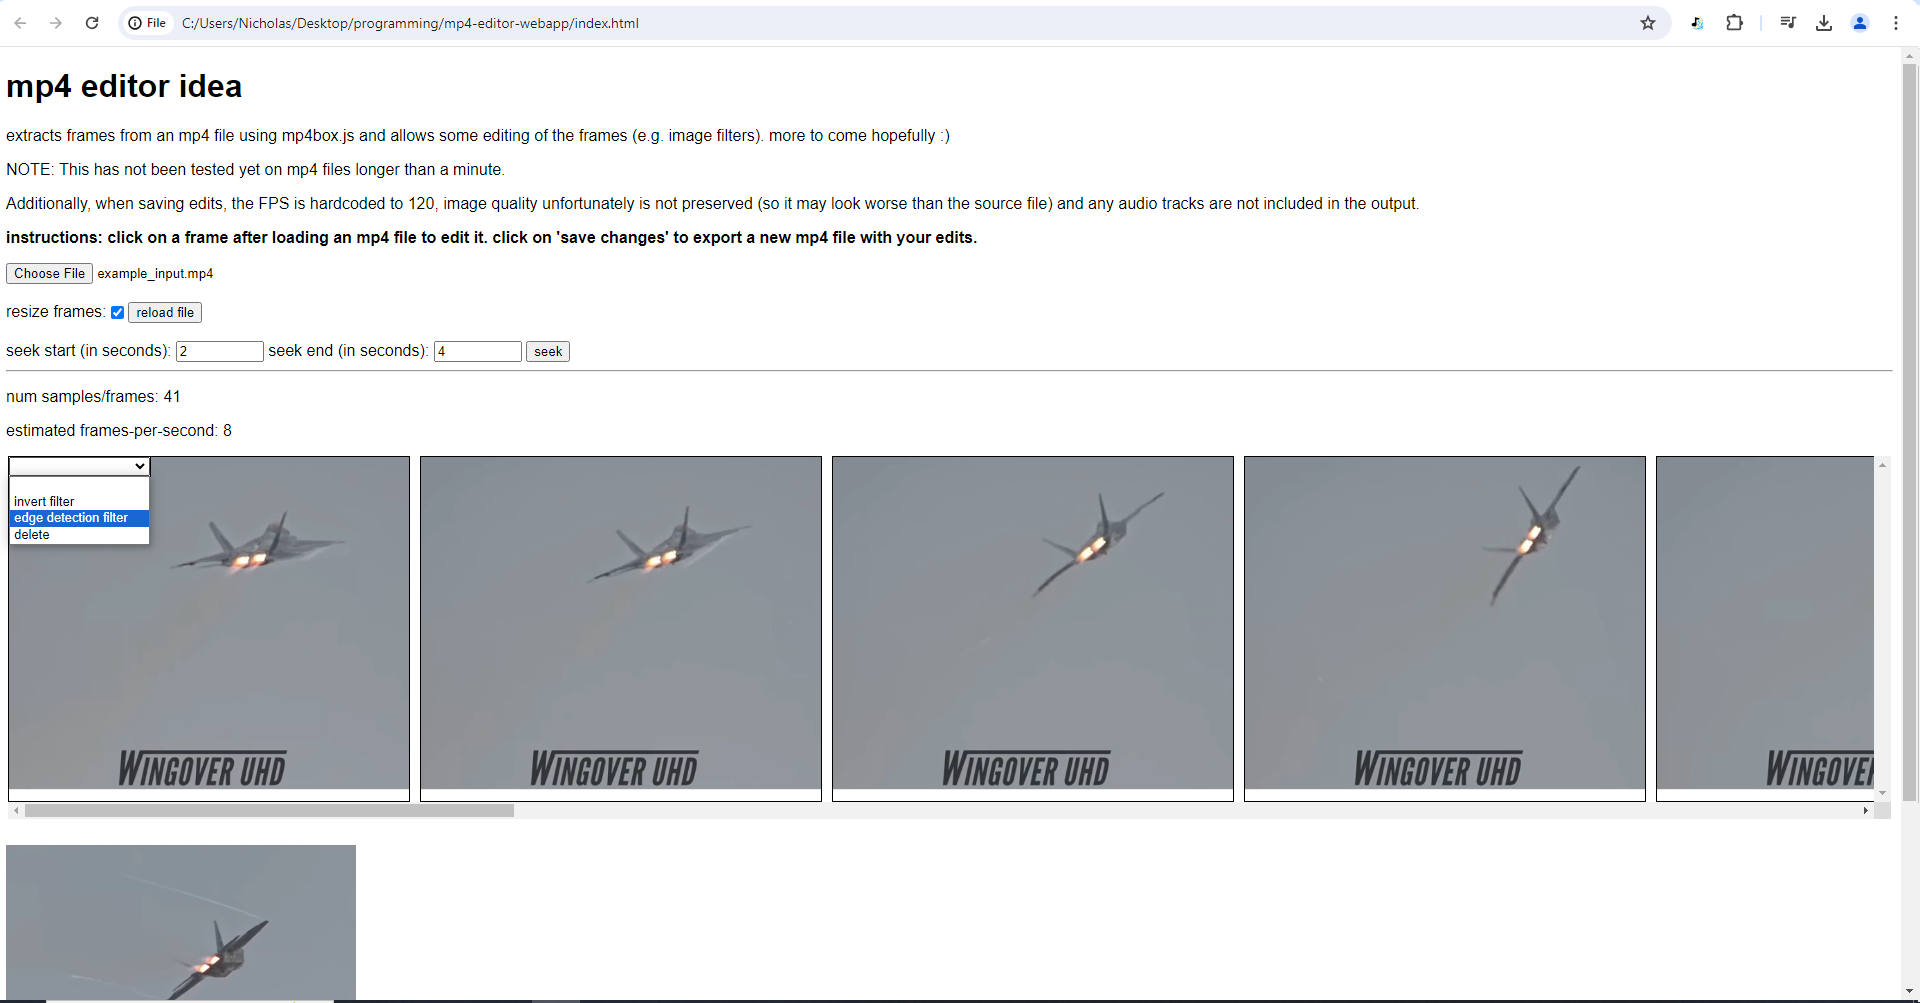
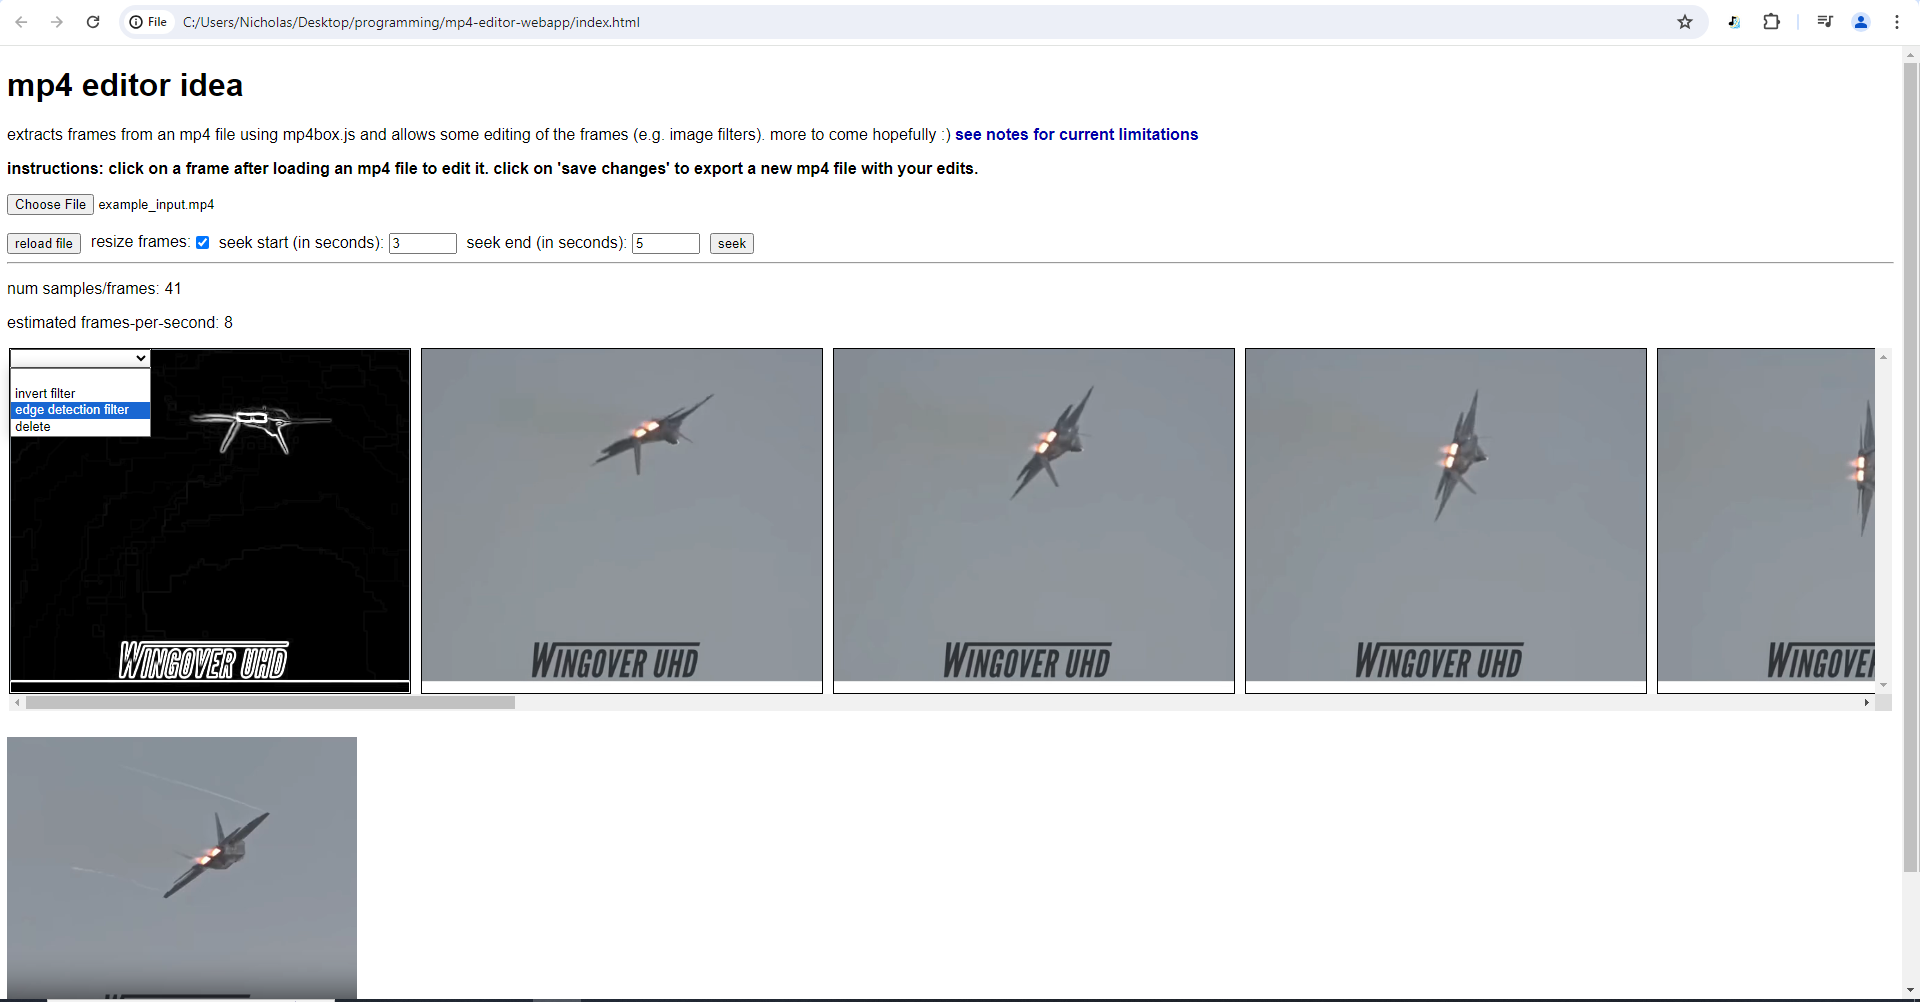
a few UI edits/improvements + seek logic fix

diff --git a/index.html b/index.html
@@ -7,6 +7,7 @@
   <title> mp4 editor idea</title>
   <script src="mp4box.all.js"></script> <!-- from https://gpac.github.io/mp4box.js/dist/mp4box.all.js -->
   <script src="./utils.js"></script>
+  <script src="./modal.js"></script>
   <style>
     body {
       font-family: Arial;
@@ -18,6 +19,11 @@
     
     canvas:hover {
       opacity: 0.5;
+    }
+    
+    #options {
+      display: flex;
+      gap: 10px;
     }
     
     #frames {
@@ -34,7 +40,7 @@
     }
     
     #seekStart, #seekEnd {
-      width: 80px;
+      width: 60px;
     }
     
     #video {
@@ -44,14 +50,33 @@
     #instructions {
       font-weight: bold;
     }
+    
+    #status {
+      color: #228b22;
+    }
+    
+    #notes {
+      color: #00a;
+      font-weight: bold;
+    }
+    
+    #notes:hover {
+      cursor: pointer;
+    }
   </style>
 </head>
 
 <body>
   <h1> mp4 editor idea </h1>
-  <p> extracts frames from an mp4 file using mp4box.js and allows some editing of the frames (e.g. image filters). more to come hopefully :) </p>
-  <p> NOTE: This has not been tested yet on mp4 files longer than a minute. </p>
-  <p> Additionally, when saving edits, the FPS is hardcoded to 120, image quality unfortunately is not preserved (so it may look worse than the source file) and any audio tracks are not included in the output. </p>
+  <p> extracts frames from an mp4 file using mp4box.js and allows some editing of the frames (e.g. image filters). more to come hopefully :) - <span id='notes'>see notes for current limitations </span></p>
+  
+  <!--
+  <p> Notes: </p>
+  <p> This has not been tested yet on mp4 files longer than 10 minutes. </p>
+  <p> Only up to 100 frames will be displayed at a time. Seeking is limited to a range of 5 seconds currently. </p>
+  <p> Additionally, when saving edits, the image quality unfortunately is not preserved (so it may look worse than the source file) and any audio tracks are not included in the output. </p>
+  -->
+  
   <p id='instructions'> instructions: click on a frame after loading an mp4 file to edit it. click on 'save changes' to export a new mp4 file with your edits. </p>
   
   <input type="file" accept="video/mp4" onchange="start(this.files[0])">
@@ -60,20 +85,23 @@
   <br />
   
   <!-- options -->
-  <div>
-    <label for='resizeFrames'> resize frames: </label>
-    <input type='checkbox' id='resizeFrames' checked />
-    
+  <div id='options'>
     <button id='reloadFile'> reload file </button>
+      
+    <div>
+      <label for='resizeFrames'> resize frames: </label>
+      <input type='checkbox' id='resizeFrames' checked />
+    </div>
     
-    <br />
-    <br />
-    
-    <label for='seekStart'> seek start (in seconds): </label>
-    <input type='number' id='seekStart' />
-    
-    <label for='seekEnd'> seek end (in seconds): </label>
-    <input type='number' id='seekEnd' />
+    <div>
+      <label for='seekStart'> seek start (in seconds): </label>
+      <input type='number' id='seekStart' />
+    </div>
+      
+    <div>
+      <label for='seekEnd'> seek end (in seconds): </label>
+      <input type='number' id='seekEnd' />
+    </div>
     
     <button id='seek'> seek </button>
   </div>
@@ -85,6 +113,8 @@
   <p> num samples/frames: <span id='numSamples'></span></p>
   
   <p> estimated frames-per-second: <span id='estimatedFps'></span></p>
+  
+  <p id='status'></p>
   
   <div id='frames'></div>
   
@@ -107,6 +137,7 @@
   let offset = 0;
   let fileSize = 0;
   let sampleCount = 0;
+  let samplesProcessed = 0;
   let seekStart = 0;
   let seekEnd = 0;
   let isSeeking = false;
@@ -117,6 +148,8 @@
 
   let mp4Box = null;
   let decoder = null;
+  
+  const modal = new Modal();
 
   const onparsedbuffer = (mp4box, buffer) => {
     //console.log(`Appending buffer with offset: ${offset}`);
@@ -240,28 +273,52 @@
       videoDecoderConfig.info = info;
       videoDecoderConfig.description = getDescription(track, this);
       
+      if(isSeeking){
+        document.getElementById('status').textContent = 'seeking in progress...';
+      }
+      
       // https://github.com/josephrocca/getVideoFrames.js/blob/main/mod.js
       decoder = new VideoDecoder({
         output: (frame) => {  // `frame` is a VideoFrame object: https://developer.mozilla.org/en-US/docs/Web/API/VideoFrame
           //console.log(`adding canvas: ${frameCount}`);
-          currTimeInSec = frame.timestamp / 1e6;
-          console.log(`curr time: ${currTimeInSec}, seekStart: ${seekStart}, seekEnd: ${seekEnd}, isSeeking: ${isSeeking}`);
+          samplesProcessed++;
+          
+          const currTimeInSec = frame.timestamp / 1e6;
+          
+          /*
+          if(isSeeking){
+            console.log(`curr time: ${currTimeInSec}, seekStart: ${seekStart}, seekEnd: ${seekEnd}, isSeeking: ${isSeeking}, total duration: ${track.duration / track.timescale}, sample num: ${samplesProcessed}`);
+          }*/
           
           // if we're seeking for a range, ignore all samples not in range
-          if(isSeeking && (currTimeInSec < seekStart || currTimeInSec > seekEnd)){
+          if(isSeeking && currTimeInSec < seekStart){
             frame.close();
             return;
-          }else if(isSeeking && currTimeInSec >= seekEnd){
+          }else if(isSeeking && samplesProcessed < track.nb_samples && currTimeInSec > seekEnd){
             // done seeking
+            document.getElementById('status').textContent = '';
+            frame.close();
+            return;
+          }else if(isSeeking && samplesProcessed === track.nb_samples){
+            // reset isSeeking after we've processed all samples
+            document.getElementById('status').textContent = '';
             isSeeking = false;
+            console.log('all samples processed after seek');
+            
+            if(currTimeInSec > seekEnd){
+              frame.close();
+              return;
+            }
           }
           
           // try to prevent potentially bad things from happening
           // if it's a big mp4 and there are lots of frames by limiting canvas creation
           // TODO: is there a better way to warn a user about large mp4 files?
           if(frameCount > 100){
-            console.log('frameCount is over 100! no more canvas elements for frames will be created.');
+            //console.log('frameCount is over 100! no more canvas elements for frames will be created.');
             frame.close();
+            document.getElementById('status').textContent = '';
+            isSeeking = false;
             return;
           }
           
@@ -327,11 +384,13 @@
         
         //console.log(`processing sample ${sampleCount++}`);
         
+        // I believe this decode part is asynchronous so to decide if we should display a particular frame or not (if seeking, for example)
+        // needs to be done at the decode.output callback level
         decoder.decode(new EncodedVideoChunk({
           type: sample.is_sync ? "key" : "delta",
           timestamp: 1e6 * sample.cts / sample.timescale,
           duration: 1e6 * sample.duration / sample.timescale,
-          data: sample.data
+          data: sample.data,
         }));
         
         sampleCount++;
@@ -348,6 +407,7 @@
     offset = 0;
     frameCount = 0;
     sampleCount = 0;
+    samplesProcessed = 0;
     
     clearFrameCanvases();
     images = [];
@@ -359,6 +419,10 @@
   }
 
   function start(fileobj){
+    // TODO: if a user loads a large mp4 and its samples are still being decoded
+    // while the user triggers a seek, that could add unwanted frames to the timeline
+    // need to fix (can we cancel the video decoder whenever start() is called or can
+    // we know when things are still being processed and prevent any action until finished?)
     currFile = fileobj;
     parseFile(fileobj);
     
@@ -391,25 +455,29 @@
     const canvasFrames = document.querySelectorAll('canvas');
     if(canvasFrames.length > 0 && currMp4Info.videoTracks.length === 1){
       // NOTE: we're only asuming one video track here.
-      const codec = currMp4Info.videoTracks[0].codec; // NOTE: for some reason, the codec in the exported mp4 doesn't match the one used here :/
-      
+      const track = currMp4Info.videoTracks[0];
+      const codec = track.codec; // NOTE: for some reason, the codec in the exported mp4 doesn't match the one used here :/
       const frameWidth = canvasFrames[0].width;
       const frameHeight = canvasFrames[0].height;
       const totalFrames = canvasFrames.length;
-      const fps = 120; // TODO: how do I get the right fps?v let user set fps?
+      const fps = Math.round(track.nb_samples / (track.duration / track.timescale)); // estimated FPS
       
       // NOTE: we are assuming right now that the number of frames hasn't changed
       // and so the duration should be the same as the original mp4
       // TODO: we should not assume that
-      const durationPerFrame = currMp4Info.nb_samples / currMp4Info.duration;
+      const durationPerFrame = track.nb_samples / track.duration;
+      console.log(`saving - durationPerFrame: ${durationPerFrame}`);
+      console.log(`saving - num samples: ${track.nb_samples}, track duration: ${track.duration}`);
+      console.log(`saving - codec: ${codec}`);
+      console.log(`saving - fps: ${fps}`);
       
       const trackOptions = {
-        timescale: currMp4Info.videoTracks[0].timescale,
+        timescale: track.timescale,
         width: frameWidth,
         height: frameHeight,
         nb_samples: totalFrames,
         codec: codec,
-        duration: currMp4Info.videoTracks[0].duration - (currMp4Info.nb_samples * durationPerFrame),
+        duration: Math.round(totalFrames * durationPerFrame),
       };
       
       const file = MP4Box.createFile();
@@ -458,7 +526,7 @@
         codec: codec,
         width: frameWidth,
         height: frameHeight,
-        bitrate: currMp4Info.videoTracks[0].bitrate,
+        bitrate: track.bitrate,
         framerate: fps,
       });
       
@@ -474,6 +542,7 @@
       };
       
       await videoEncoder.flush();
+      videoEncoder.close();
       
       // TODO: add audio if present as well
       
@@ -581,6 +650,16 @@
       
       start(currFile);
     }
+  });
+  
+  document.getElementById('notes').addEventListener('click', async (evt) => {
+    const notes = [
+      "Notes:",
+      "This has not been tested yet on mp4 files longer than 10 minutes.",
+      "Only up to 100 frames will be displayed at a time. Seeking is limited to a range of 5 seconds currently.",
+      "Additionally, when saving edits, the image quality unfortunately is not preserved (so it may look worse than the source file) and any audio tracks are not included in the output.",
+    ];
+    await modal.createMessageModal(notes);
   });
 
   </script>

diff --git a/modal.js b/modal.js
@@ -1,0 +1,63 @@
+class Modal {
+  constructor(){
+    this.modalStyle = {
+      position: "fixed",
+      top: "50%",
+      left: "50%",
+      transform: "translate(-50%, -50%)",
+      zIndex: "1010",
+      textAlign: "center",
+      padding: "8px",
+      backgroundColor: "#fff",
+      width: "auto",
+      height: "auto",
+      boxShadow: "2px 2px 5px #ccc",
+      border: "1px solid #ccc",
+      overflowY: "auto",
+    };
+    
+    this.modalOverlayStyle = {
+      zIndex: "1000",
+      position: "fixed",
+      top: "0",
+      left: "0",
+      width: "100%",
+      height: "100%",
+      backgroundColor: "#aaa",
+      opacity: "0.2",
+    };
+  }
+  
+  createMessageModal(textArray){
+    const modal = document.createElement('div');
+    modal.id = "modal";
+    Object.assign(modal.style, this.modalStyle);
+    
+    for(const text of textArray){
+      const displayText = document.createElement('p');
+      displayText.textContent = text;
+      modal.appendChild(displayText);
+    }
+    
+    const okBtn = document.createElement('button');
+    okBtn.innerText = "ok";
+    modal.appendChild(okBtn);
+    
+    const modalOverlay = document.createElement('div');
+    modalOverlay.id = "modal-overlay";
+    Object.assign(modalOverlay.style, this.modalOverlayStyle);
+    
+    document.body.appendChild(modal);
+    document.body.appendChild(modalOverlay);
+    
+    return new Promise(resolve => {
+        okBtn.onclick = () => {
+            resolve(true);
+        };
+    }).finally(() => {
+        // make sure to close modal
+        document.body.removeChild(modal);
+        document.body.removeChild(modalOverlay);
+    });
+  }
+}
